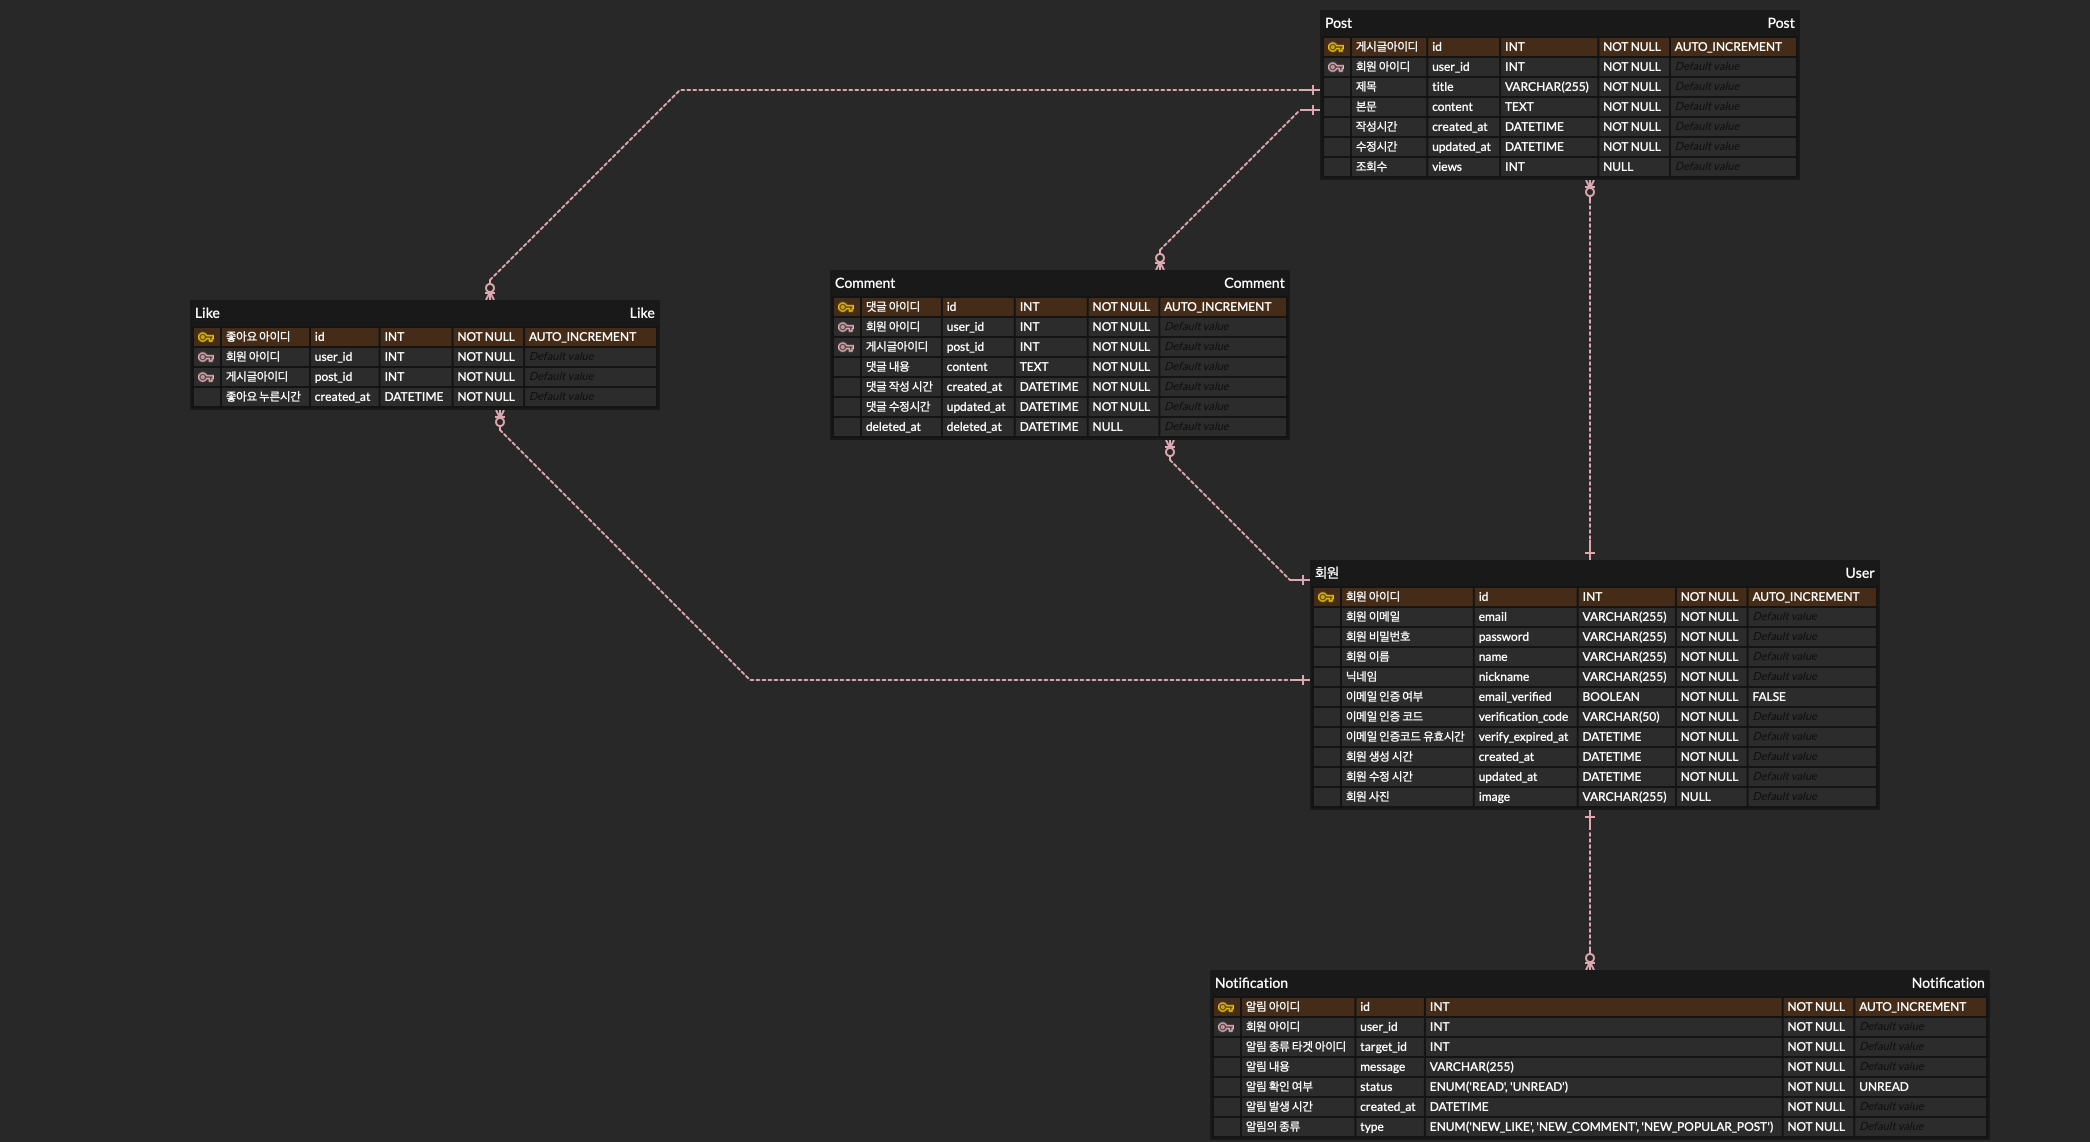
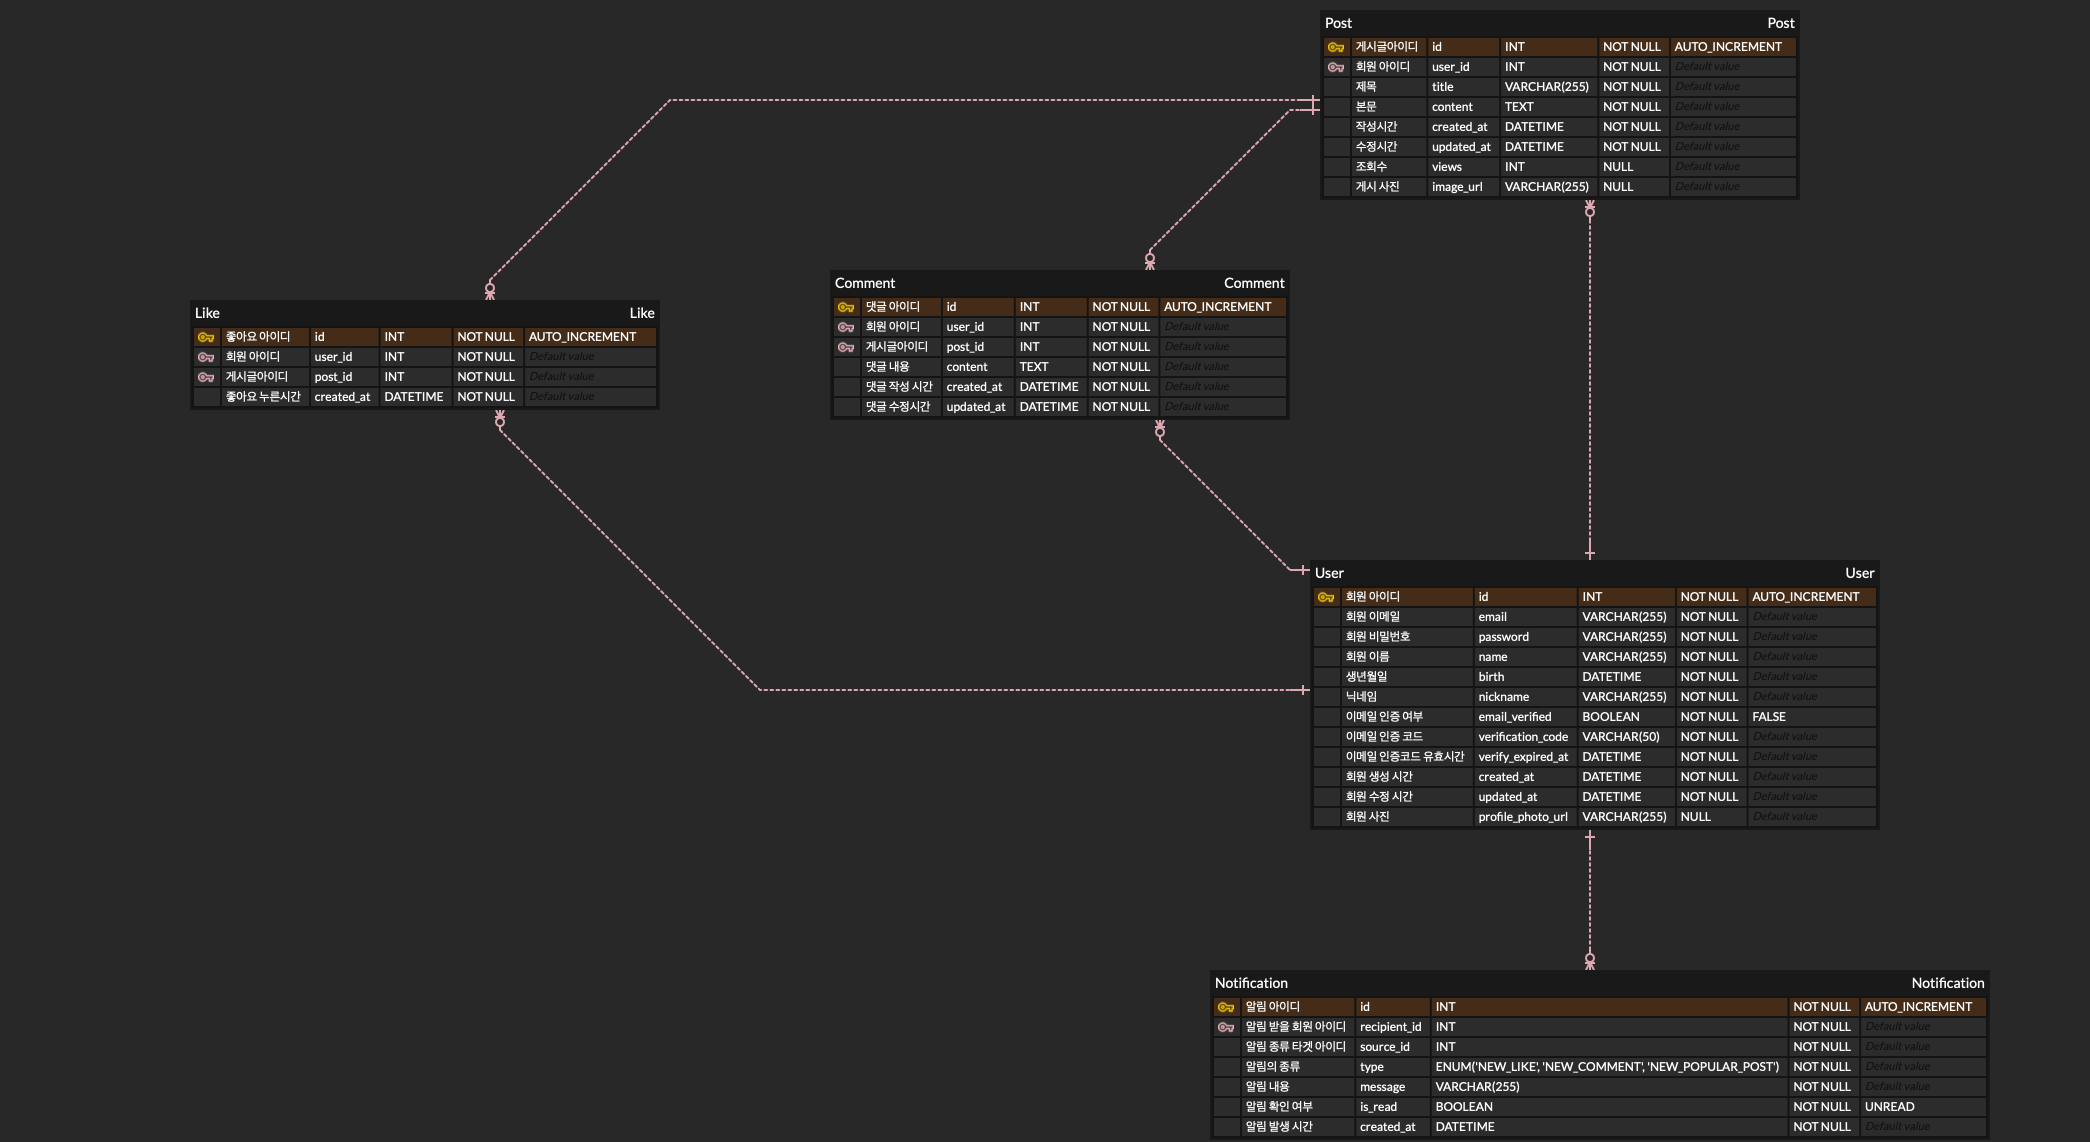
refactor: [010-Changes] ERD수정 및 배포IP docker-compose 적용
- erd 이미지 수정

diff --git a/common/src/main/java/com/project/common/domain/entity/Notification.java b/common/src/main/java/com/project/common/domain/entity/Notification.java
@@ -27,7 +27,7 @@ public class Notification {
   @GeneratedValue(strategy = GenerationType.IDENTITY)
   private Long id;
 
-  //알림받을유저는
+
   @Column(nullable = false)
   private Long recipientId;
 
